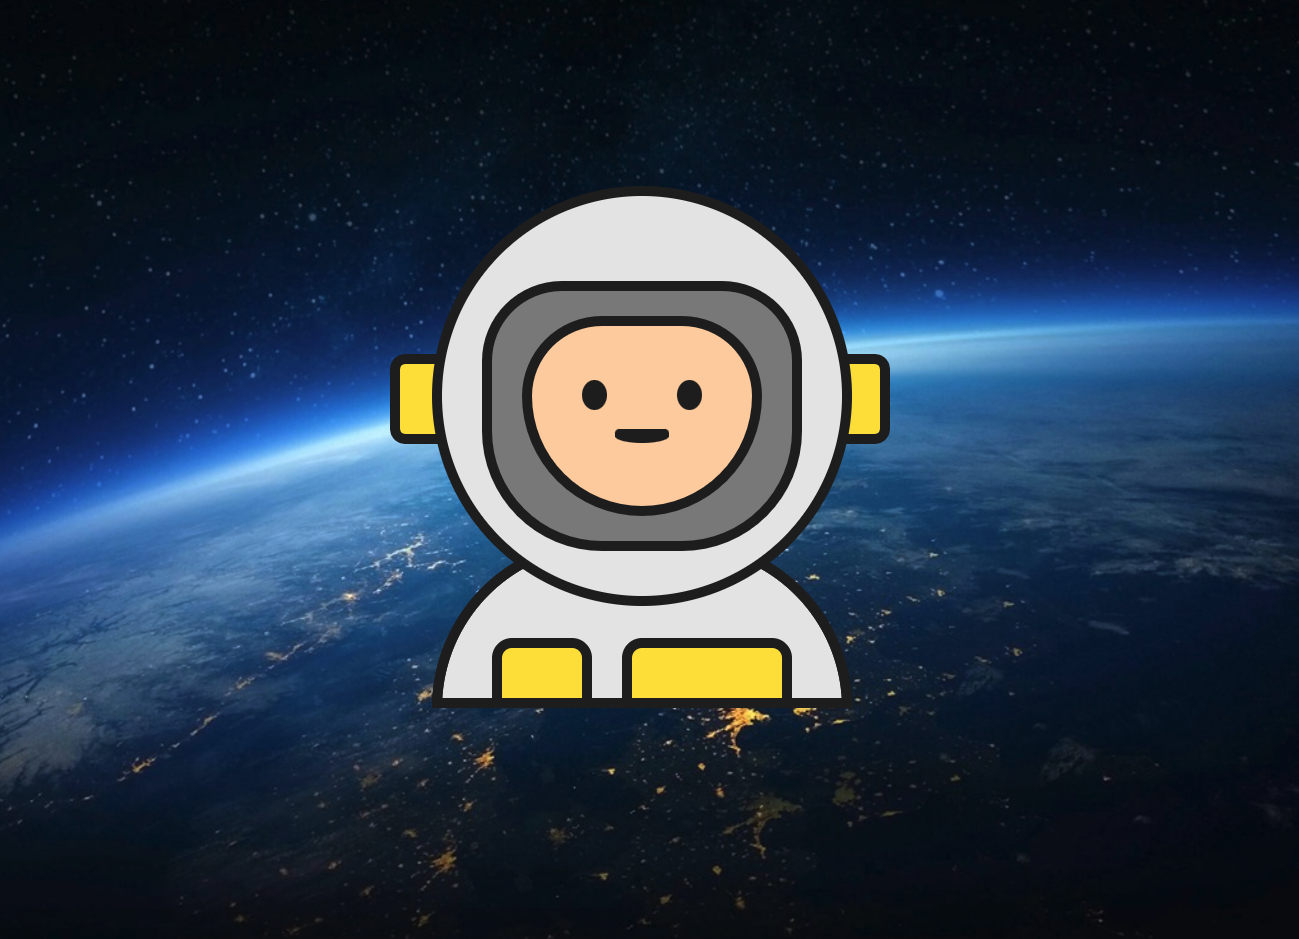
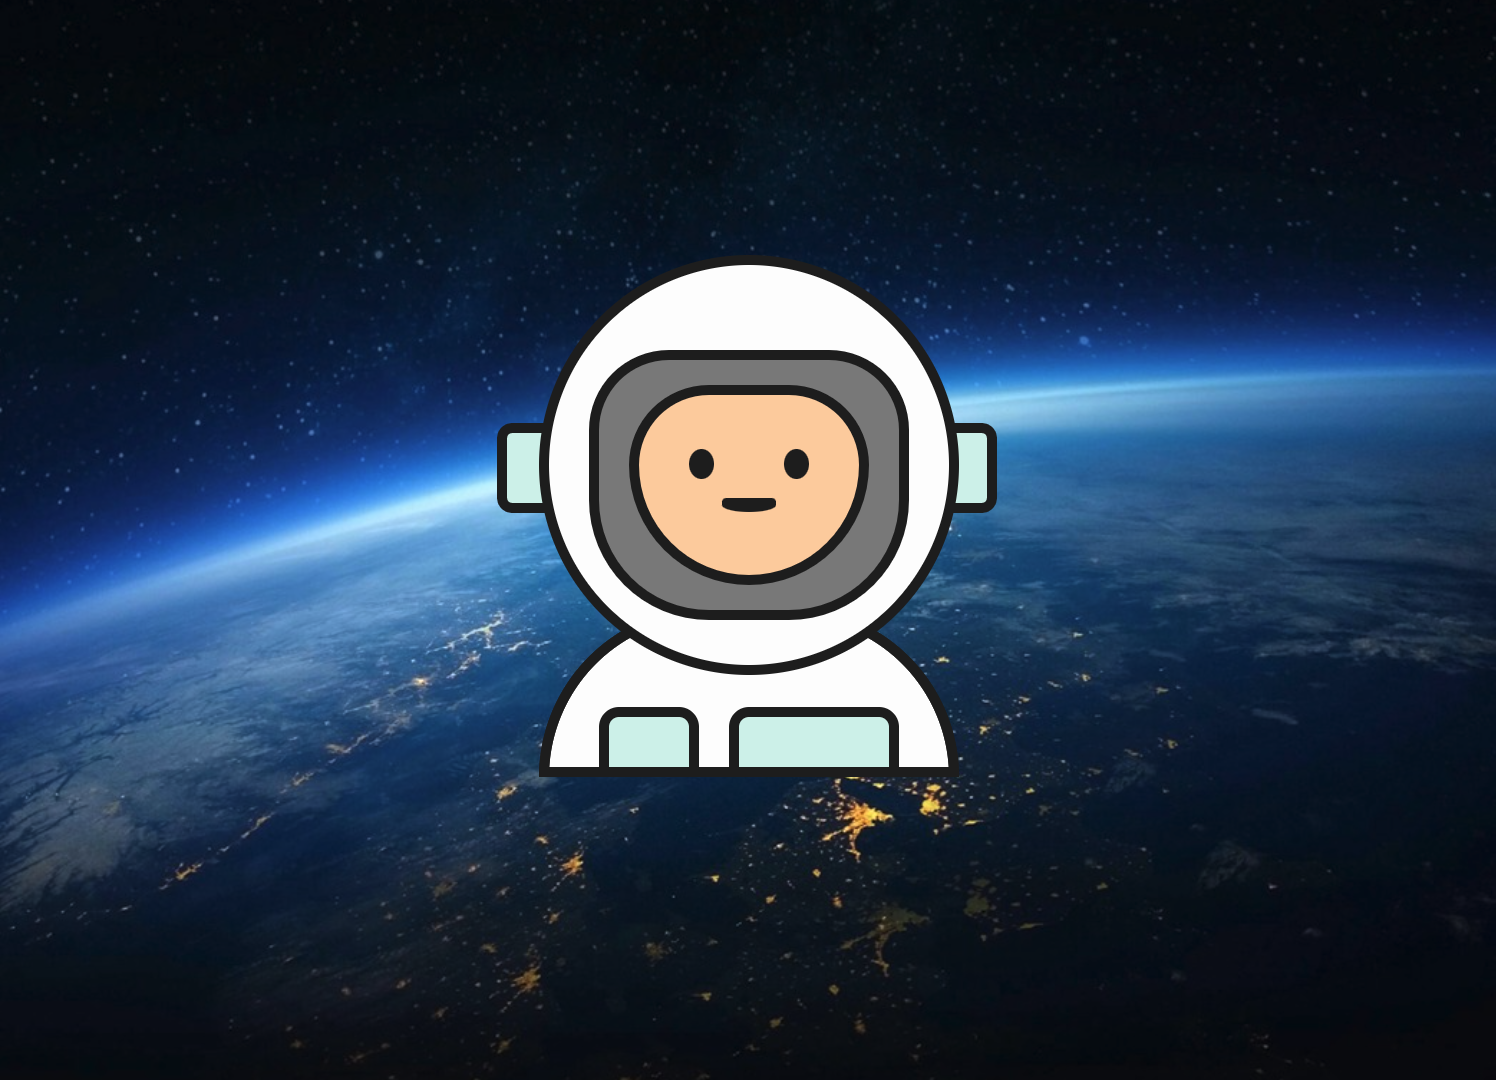
🎨 CSS 색상 변경

diff --git a/CSS/style.css b/CSS/style.css
@@ -6,8 +6,8 @@
 
 :root {
     --borer-black : 10px solid #1f1f1f;
-    --yellow : #ffe432;
-    --lightgray : #e7e7e7;
+    --mint : #d1f2eb;
+    --lightgray : #fdfdfd;
     --gray : #838383;
     --black : #1f1f1f;
     --darkPink : #F08080;
@@ -96,7 +96,7 @@ body {
 [class^="ear-"] {
     width: 40px;
     height: 70px;
-    background: var(--yellow);
+    background: var(--mint);
     border: var(--borer-black);
 }
 
@@ -159,7 +159,7 @@ body {
     border-color: var(--black);
     border-style: solid;
     height: 50px;
-    background-color: var(--yellow);
+    background-color: var(--mint);
     border-radius: 20px 20px 0 0;
 }
 
@@ -168,7 +168,7 @@ body {
 }
 
 .patch .patch-left:hover {
-    background-color: #76D7C4;
+    background-color: #e5e74d;
 }
 
 .patch .patch-right {
@@ -176,5 +176,5 @@ body {
 }
 
 .patch .patch-right:hover {
-    background-color: #C39BD3;
+    background-color: #c39bd3;
 }
